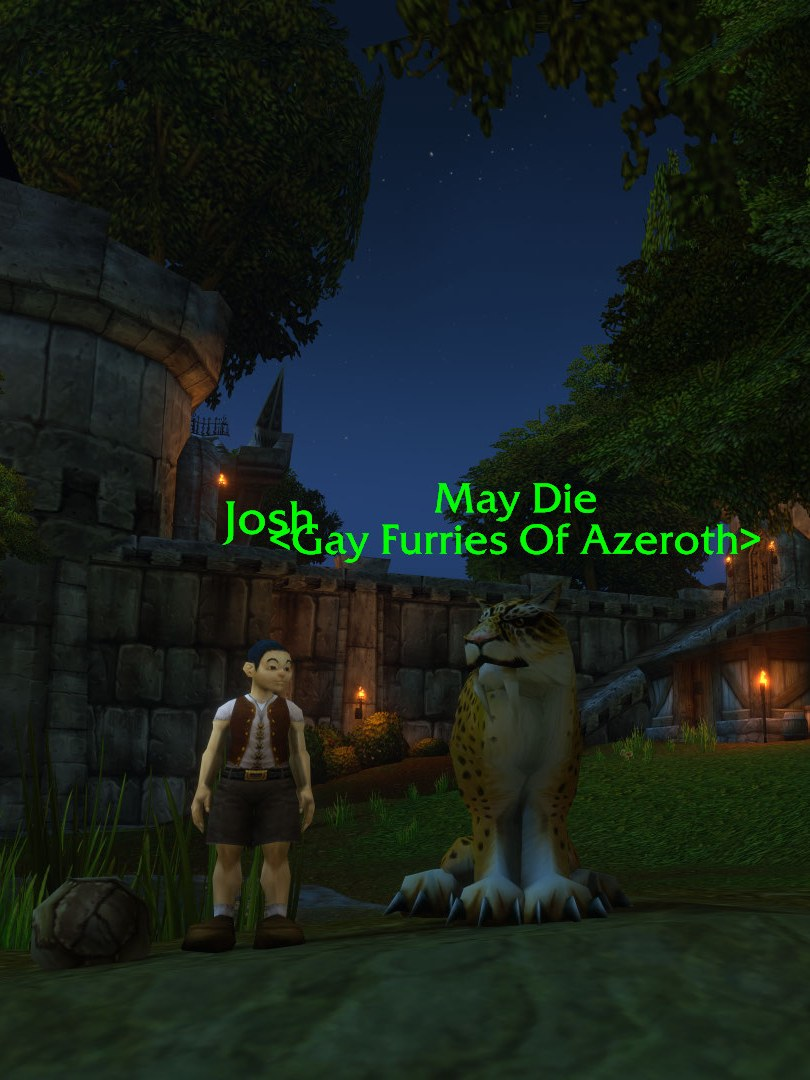
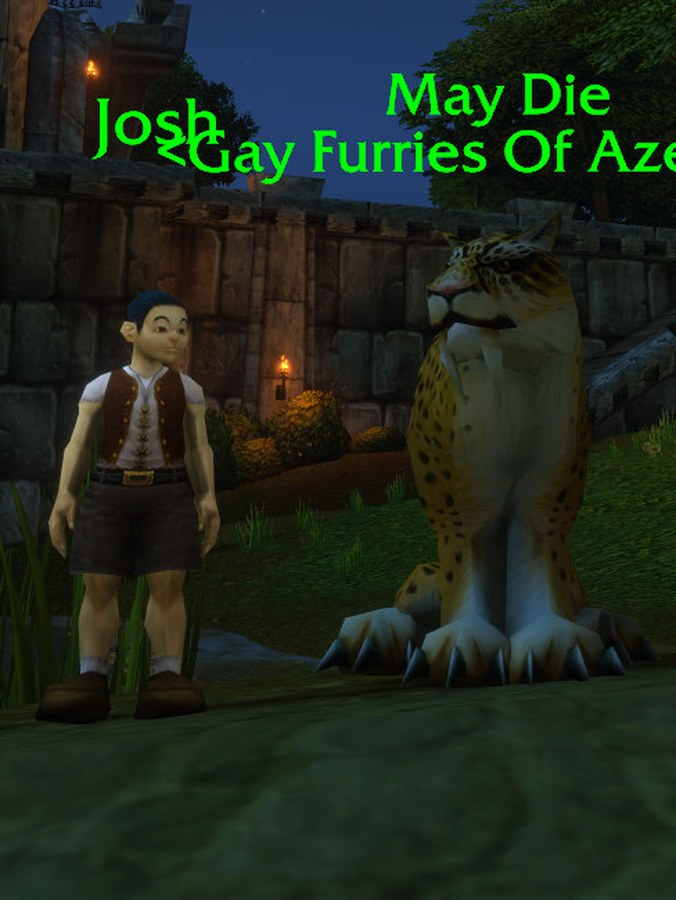
Bigger cards; recrop May Die and Pets Fault around the characters
- Cards are at least 290 px wide (was 210), so three fit across a
  laptop screen; name, level and profession text scaled up to match.
- The four pictures are recropped so the characters sit in the upper
  part of the card, above the name panel, instead of the nameplates.
  Pets Fault's crop drops the half-cut pet nameplate.

Claude-Session: https://claude.ai/code/session_01PfTaPuzBczjDXFUs1WuaLF

diff --git a/assets/style.css b/assets/style.css
@@ -65,7 +65,7 @@ h1 .w { background: var(--rainbow); -webkit-background-clip: text; background-cl
 .icon-btn { width: 36px; height: 36px; display: inline-grid; place-items: center; border-radius: 50%; border: 0; background: var(--glass); color: var(--text); font-size: 16px; line-height: 1; }
 
 /* Gallery */
-.grid { display: grid; grid-template-columns: repeat(auto-fill, minmax(min(100%, 210px), 1fr)); gap: 38px 34px; padding: 10px 8px; }
+.grid { display: grid; grid-template-columns: repeat(auto-fill, minmax(min(100%, 290px), 1fr)); gap: 40px 36px; padding: 10px 8px; }
 .card-wrap { position: relative; }
 .card { position: relative; display: block; width: 100%; aspect-ratio: 3 / 4; max-width: 100%; border: 1px solid var(--t-edge); border-radius: 18px; background: var(--surface); color: var(--text); text-align: left; box-shadow: 0 10px 30px var(--t-glow); transition: transform 0.2s ease, box-shadow 0.2s ease; }
 .card-wrap:hover .card { transform: translateY(-3px); box-shadow: 0 14px 38px var(--t-glow), 0 0 0 1px var(--t-edge); }
@@ -75,8 +75,8 @@ h1 .w { background: var(--rainbow); -webkit-background-clip: text; background-cl
 .theme-ico { display: inline-block; width: 18px; height: 18px; margin-right: 6px; vertical-align: -3px; }
 .card .tint { position: absolute; inset: 0; background: var(--t-tint); pointer-events: none; }
 .card .shade { position: absolute; inset: 0; background: linear-gradient(to top, var(--t-shade) 0%, var(--t-shade-mid) 40%, transparent 66%); pointer-events: none; }
-.card .info { position: absolute; left: 0; right: 0; bottom: 0; padding: 14px; display: grid; gap: 6px; pointer-events: none; z-index: 1; }
-.card .name { font-family: var(--t-font); font-weight: 700; font-size: 17px; line-height: 1.15; text-wrap: balance; overflow-wrap: anywhere; }
+.card .info { position: absolute; left: 0; right: 0; bottom: 0; padding: 16px 18px; display: grid; gap: 7px; pointer-events: none; z-index: 1; }
+.card .name { font-family: var(--t-font); font-weight: 700; font-size: 20px; line-height: 1.15; text-wrap: balance; overflow-wrap: anywhere; }
 .card .orn { width: 44px; height: 2px; border-radius: 2px; background: var(--t-rule); }
 .card-hit { position: absolute; inset: 0; z-index: 2; padding: 0; border: 0; border-radius: inherit; background: transparent; touch-action: pan-y; }
 .card-hit:focus-visible { outline: 2px solid var(--a1); outline-offset: -3px; }
@@ -93,11 +93,11 @@ h1 .w { background: var(--rainbow); -webkit-background-clip: text; background-cl
 .car-dots i { width: 6px; height: 6px; border-radius: 50%; background: var(--track); }
 .car-dots i.on { background: var(--text); }
 @media (prefers-reduced-motion: reduce) { .car-track { transition: none; } }
-.card .sub { display: flex; align-items: center; gap: 7px; color: var(--muted); font-size: 13px; }
+.card .sub { display: flex; align-items: center; gap: 7px; color: var(--muted); font-size: 14px; }
 .card .lvl { color: var(--cc); font-weight: 700; font-variant-numeric: tabular-nums; }
 .dot { width: 8px; height: 8px; border-radius: 50%; background: var(--cc); flex: none; }
 .profs { display: flex; flex-wrap: wrap; gap: 4px; }
-.profs span { font-size: 11px; font-weight: 600; padding: 2px 8px; border-radius: 999px; background: var(--t-chip); border: 1px solid var(--t-edge); }
+.profs span { font-size: 12px; font-weight: 600; padding: 2px 8px; border-radius: 999px; background: var(--t-chip); border: 1px solid var(--t-edge); }
 .pill { position: absolute; top: 10px; z-index: 3; pointer-events: none; font-size: 11px; font-weight: 700; padding: 3px 9px; border-radius: 999px; }
 .pill.example { left: 10px; background: var(--butter); color: var(--surface); }
 .pill.clips { right: 10px; background: var(--glass); color: var(--text); border: 1px solid var(--line); }
